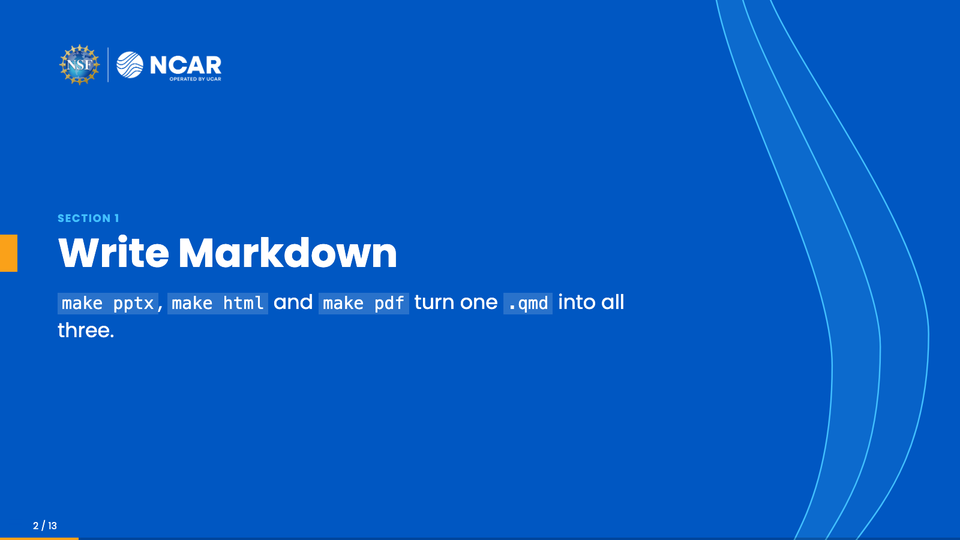
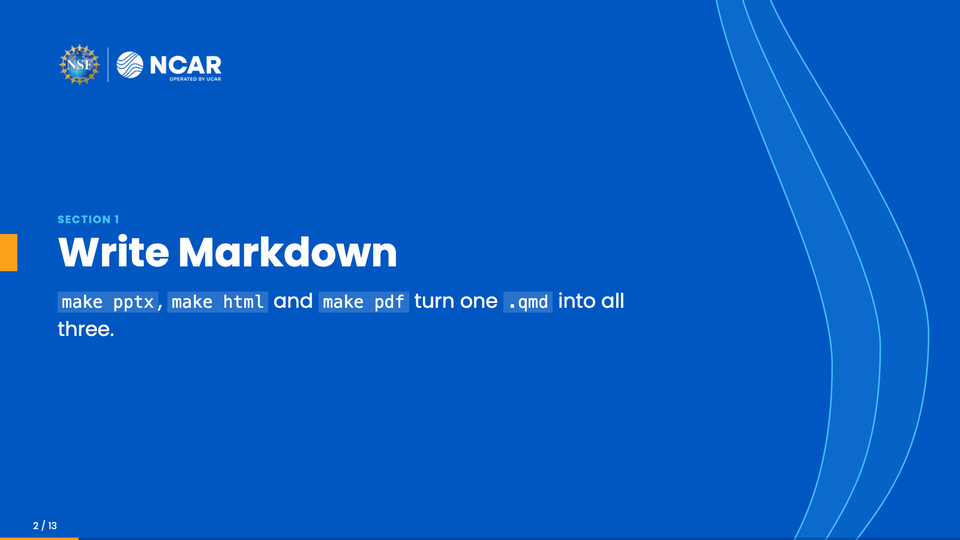
The theme's ex gaps as em of their element, from one key each
Beamer set four gaps in ex where HTML set em (Poppins' ex is 0.55 em, so the PDF's read about
half of HTML's), and the divider's two were a third hand in pixels in section_subtitle.py. Each
is a livery key read by all three formats: boxes.note.gap (em of the caption, under a figure),
boxes.quote.attribution-gap (em of the caption, under the lines; the pptx attribution gains it, it
had none), section.eyebrow-gap (em of the eyebrow) and section.subtitle-gap (em of the
subtitle), with SECTION always in the json. Beamer selects the element's font and skips in em,
no \dimexpr; the feature panel's plain blocks keep their gaps as em of the block title.

Ben's pick from the side-by-side (ncar, cu, nasa-dark; the note, the quote, the divider): the
PDF's gaps as they were (note 0.3, attribution 0.5, eyebrow 0.33, subtitle 0.66), so HTML shrinks
to them. The PDF's subtitle gap was measured in the heading's font (1.2ex of 40 pt) and is now
the subtitle's (0.66 em of 20 pt), so its divider stacks tighten too.

Parity against 81a3c9d, beyond items 1 and 2: PDF every divider page (the centered stack moves:
quickstart p-02, p-08; sample p-03, p-10; fixtures p-7 the unnumbered divider's tab; plots p-02),
the feature slides' panel headings (quickstart p-10, fixtures p-6), the note slide (sample p-22,
re-centered) and the quote (sample p-07); the latex demo's text dump gains a blank line. HTML
every deck. pptx every divider slide (the stack) and the quote slide (the attribution's spacing).
[…]

diff --git a/_extensions/engine/engine-revealjs.scss b/_extensions/engine/engine-revealjs.scss
@@ -332,7 +332,7 @@ $body-height: calc(var(--engine-body-bottom) - var(--engine-body-top));
 // caption's look
 .reveal .slides section .engine-note {
   @include caption;
-  margin-top: 0.4em;
+  margin-top: var(--engine-note-gap);   // boxes.note.gap, em of the caption type
   p { margin: 0; }
 }
 
@@ -437,7 +437,7 @@ $body-height: calc(var(--engine-body-bottom) - var(--engine-body-top));
   > p + p { margin-top: 0.25em; }
   > p.engine-attribution {   // in the body's face, upright
     @include caption($block: false);
-    margin-top: 0.6em; font-family: inherit; font-style: normal;
+    margin-top: var(--engine-quote-attribution-gap); font-family: inherit; font-style: normal;   // boxes.quote.attribution-gap
   }
   @include trim($last: false);
 }
@@ -909,7 +909,7 @@ div.reveal div.slides section.engine-title.quarto-title-block {
     font-weight: 700;
     letter-spacing: 0.1em;
     text-transform: uppercase;
-    margin-bottom: 0.5em;
+    margin-bottom: var(--engine-section-eyebrow-gap);   // section.eyebrow-gap, em of the eyebrow
   }
   h1 {
     position: relative;
@@ -929,7 +929,7 @@ div.reveal div.slides section.engine-title.quarto-title-block {
     }
   }
   .engine-subtitle {
-    margin-top: 0.7em;
+    margin-top: var(--engine-section-subtitle-gap);   // section.subtitle-gap, em of the subtitle
     font-size: calc(var(--engine-type-sectionsubtitle, 1.1) * 1em);
     p { margin: 0 0 0.4em; }
     :not(pre) > code { background: rgba(#fff, 0.16); color: var(--engine-cmp-text); }

diff --git a/liveries/nasa-dark/build/livery.css b/liveries/nasa-dark/build/livery.css
@@ -103,6 +103,8 @@
   --engine-title-rule-width: 1.4px;
   --engine-body-top: 150px;
   --engine-title-rule-color: #606367;
+  --engine-section-eyebrow-gap: 0.33em;
+  --engine-section-subtitle-gap: 0.66em;
   --engine-title-left: var(--engine-margin);
   --engine-title-right: calc(var(--engine-margin) + 40px + var(--engine-logo-w));
   --engine-pagenumber-left: auto;
@@ -170,6 +172,8 @@
   --engine-gallery-fill: transparent;
   --engine-references-hang: 1.5em;
   --engine-references-gap: 0.4em;
+  --engine-quote-attribution-gap: 0.5em;
+  --engine-note-gap: 0.3em;
 }
 /* chart colors (livery.json charts) */
 :root {

diff --git a/liveries/nasa/build/livery.css b/liveries/nasa/build/livery.css
@@ -103,6 +103,8 @@
   --engine-title-rule-width: 1.4px;
   --engine-body-top: 150px;
   --engine-title-rule-color: #B0B1B2;
+  --engine-section-eyebrow-gap: 0.33em;
+  --engine-section-subtitle-gap: 0.66em;
   --engine-title-left: var(--engine-margin);
   --engine-title-right: calc(var(--engine-margin) + 40px + var(--engine-logo-w));
   --engine-pagenumber-left: auto;
@@ -170,6 +172,8 @@
   --engine-gallery-fill: transparent;
   --engine-references-hang: 1.5em;
   --engine-references-gap: 0.4em;
+  --engine-quote-attribution-gap: 0.5em;
+  --engine-note-gap: 0.3em;
 }
 /* chart colors (livery.json charts) */
 :root {

diff --git a/liveries/ncar/build/livery.css b/liveries/ncar/build/livery.css
@@ -95,6 +95,8 @@
   --engine-title-rule-width: 1.4px;
   --engine-body-top: 150px;
   --engine-title-rule-color: #A9B8CB;
+  --engine-section-eyebrow-gap: 0.33em;
+  --engine-section-subtitle-gap: 0.66em;
   --engine-title-left: var(--engine-margin);
   --engine-title-right: calc(var(--engine-margin) + 40px + var(--engine-logo-w));
   --engine-pagenumber-left: 50px;
@@ -155,6 +157,8 @@
   --engine-gallery-fill: transparent;
   --engine-references-hang: 1.5em;
   --engine-references-gap: 0.4em;
+  --engine-quote-attribution-gap: 0.5em;
+  --engine-note-gap: 0.3em;
 }
 /* chart colors (livery.json charts) */
 :root {

diff --git a/liveries/ncarucar/build/livery.css b/liveries/ncarucar/build/livery.css
@@ -95,6 +95,8 @@
   --engine-title-rule-width: 1.4px;
   --engine-body-top: 150px;
   --engine-title-rule-color: #A9B8CB;
+  --engine-section-eyebrow-gap: 0.33em;
+  --engine-section-subtitle-gap: 0.66em;
   --engine-title-left: var(--engine-margin);
   --engine-title-right: calc(var(--engine-margin) + 40px + var(--engine-logo-w));
   --engine-pagenumber-left: 50px;
@@ -155,6 +157,8 @@
   --engine-gallery-fill: transparent;
   --engine-references-hang: 1.5em;
   --engine-references-gap: 0.4em;
+  --engine-quote-attribution-gap: 0.5em;
+  --engine-note-gap: 0.3em;
 }
 /* chart colors (livery.json charts) */
 :root {

diff --git a/liveries/ucar/build/livery.css b/liveries/ucar/build/livery.css
@@ -95,6 +95,8 @@
   --engine-title-rule-width: 1.4px;
   --engine-body-top: 150px;
   --engine-title-rule-color: #A9B8CB;
+  --engine-section-eyebrow-gap: 0.33em;
+  --engine-section-subtitle-gap: 0.66em;
   --engine-title-left: var(--engine-margin);
   --engine-title-right: calc(var(--engine-margin) + 40px + var(--engine-logo-w));
   --engine-pagenumber-left: 50px;
@@ -155,6 +157,8 @@
   --engine-gallery-fill: transparent;
   --engine-references-hang: 1.5em;
   --engine-references-gap: 0.4em;
+  --engine-quote-attribution-gap: 0.5em;
+  --engine-note-gap: 0.3em;
 }
 /* chart colors (livery.json charts) */
 :root {

diff --git a/liveries/ucp/build/livery.css b/liveries/ucp/build/livery.css
@@ -95,6 +95,8 @@
   --engine-title-rule-width: 1.4px;
   --engine-body-top: 150px;
   --engine-title-rule-color: #A9B8CB;
+  --engine-section-eyebrow-gap: 0.33em;
+  --engine-section-subtitle-gap: 0.66em;
   --engine-title-left: var(--engine-margin);
   --engine-title-right: calc(var(--engine-margin) + 40px + var(--engine-logo-w));
   --engine-pagenumber-left: 50px;
@@ -155,6 +157,8 @@
   --engine-gallery-fill: transparent;
   --engine-references-hang: 1.5em;
   --engine-references-gap: 0.4em;
+  --engine-quote-attribution-gap: 0.5em;
+  --engine-note-gap: 0.3em;
 }
 /* chart colors (livery.json charts) */
 :root {

diff --git a/liveries/nasa-jsc-eg/build/livery.css b/liveries/nasa-jsc-eg/build/livery.css
@@ -97,6 +97,8 @@
   --engine-title-rule-width: 1.4px;
   --engine-body-top: 166.8px;
   --engine-title-rule-color: #E1E1E1;
+  --engine-section-eyebrow-gap: 0.33em;
+  --engine-section-subtitle-gap: 0.66em;
   --engine-title-tab: none;
   --engine-title-left: var(--engine-margin);
   --engine-title-right: calc(22.4px + 40px + var(--engine-logo-w));
@@ -165,6 +167,8 @@
   --engine-gallery-fill: transparent;
   --engine-references-hang: 1.5em;
   --engine-references-gap: 0.4em;
+  --engine-quote-attribution-gap: 0.5em;
+  --engine-note-gap: 0.3em;
 }
 /* chart colors (livery.json charts) */
 :root {

diff --git a/liveries/cu/build/livery.css b/liveries/cu/build/livery.css
@@ -99,6 +99,8 @@
   --engine-title-rule-width: 1.4px;
   --engine-body-top: 150px;
   --engine-title-rule-color: #AAA8A3;
+  --engine-section-eyebrow-gap: 0.33em;
+  --engine-section-subtitle-gap: 0.66em;
   --engine-title-left: var(--engine-margin);
   --engine-title-right: var(--engine-margin);
   --engine-pagenumber-left: auto;
@@ -166,6 +168,8 @@
   --engine-gallery-fill: transparent;
   --engine-references-hang: 1.5em;
   --engine-references-gap: 0.4em;
+  --engine-quote-attribution-gap: 0.5em;
+  --engine-note-gap: 0.3em;
 }
 /* chart colors (livery.json charts) */
 :root {

diff --git a/liveries/nsi/build/livery.css b/liveries/nsi/build/livery.css
@@ -99,6 +99,8 @@
   --engine-title-rule-width: 1.4px;
   --engine-body-top: 177.6px;
   --engine-title-rule-color: #AAA8A3;
+  --engine-section-eyebrow-gap: 0.33em;
+  --engine-section-subtitle-gap: 0.66em;
   --engine-title-justify: center;
   --engine-title-text-align: center;
   --engine-title-tab: none;
@@ -170,6 +172,8 @@
   --engine-gallery-fill: transparent;
   --engine-references-hang: 1.5em;
   --engine-references-gap: 0.4em;
+  --engine-quote-attribution-gap: 0.5em;
+  --engine-note-gap: 0.3em;
 }
 /* chart colors (livery.json charts) */
 :root {

diff --git a/_extensions/engine/livery_build.py b/_extensions/engine/livery_build.py
@@ -69,6 +69,10 @@ SLOT_ROLES = {"dk1": "foreground", "lt1": "background", "dk2": "primary", "lt2":
 FRAMETITLE = {"align": "left", "tab": True, "rule": True, "top": 0.0489, "height": 0.0778, "rule-y": 0.1444,
               "rule-width": 0.0016, "rule-color": "rule"}
 BODY_GAP = 0.0223   # the content body's top under the hairline, or under a taller mark: 20 px of 900 (0.1444 + it rounds to the 0.1667 the formats drew)
+# the divider stack's gaps (livery.yml section:), em of the element above the gap: the eyebrow's under
+# it (of the eyebrow type), the subtitle's above it (of the section subtitle type). These and the note
+# and attribution gaps are the PDF's old ex gaps as em (Ben's pick from the side-by-side, 2026-10-22)
+SECTION = {"eyebrow-gap": 0.33, "subtitle-gap": 0.66}
 BODY_BOTTOM = 0.9222   # its foot (the pptx body placeholder's; 70 px of 900 above the edge, as HTML pads)
 # the fields every livery has: content slides on the background role, the colored fields (dividers,
 # the cover title and closing, feature covers) on primary; a band title adds its own field role
@@ -114,7 +118,9 @@ BOXES = {
     # space above each row and number-width the number column, em of the body (HTML's 0.55em, 2em)
     "agenda": {"number-color": "primary-contrast", "current-color": "primary-contrast", "gap": 0.55, "number-width": 2},
     "quote": {"bar": 0.0089, "bar-color": "primary-contrast", "pad": [0.3, 1.0],   # a quote block: a bar, no fill,
-              "family": None, "style": "normal"},   # its lines' face: a typography.fonts family (null: the body's), its style
+              "family": None, "style": "normal",   # its lines' face: a typography.fonts family (null: the body's), its style
+              "attribution-gap": 0.5},   # the attribution's distance under the lines, em of the caption type
+    "note": {"gap": 0.3},   # a ::: note under a figure or table: its distance under it, em of the caption type
     # (primary-contrast: a thin bar must read on the background, and secondary does not on every livery)
     "card": {"fill": "background", "radius": 0, "outline": 0.0033, "outline-color": "highlight",
              "pad": [0.5, 0.8], "head-pad": [0.35, 0.8],
@@ -238,6 +244,7 @@ def resolve(d: Path) -> tuple[dict, dict]:
     for key in ("geometry", "section", "art", "pptx", "latex"):
         if key in data:
             out[key] = data[key]
+    out["section"] = {**SECTION, **(data.get("section") or {})}   # the divider stack's gaps always in the json
     # the TeX name of each role and blend (livery.sty defines them, and carries this table as
     # \engine@role@<name> for a card's or strip's role=; the filters check a role= against it)
     out.setdefault("latex", {})["roles"] = {**{r: t for r, t in ROLE_TEX.items() if r in roles},
@@ -849,6 +856,9 @@ def emit_sty(livery: dict, sources: dict, extra: str = "") -> str:
     for k, tex in (("top", "top"), ("height", "height"), ("rule-y", "ruley"), ("rule-width", "rulewidth"), ("body", "bodytop")):
         L.append(f"\\def\\engine@ft@{tex}{{{ft[k]}}}")
     L.append(f"\\definecolor{{EngineFrametitleRuleColor}}{{HTML}}{{{ft['rule-color'][1:]}}}")
+    L.append("% the divider stack's gaps (section:), em of the eyebrow and of the subtitle")
+    for k in SECTION:
+        L.append(f"\\def\\engine@section@{k.replace('-', '')}{{{livery['section'][k]}}}")
     mk = livery.get("marking")
     if mk:   # the marking strip: its box (y down), alignment, colors and the livery's default text
         L.append("% the marking strip (marking:); its text is the deck's \\enginemarking, else this default")
@@ -1101,6 +1111,8 @@ def emit_css(livery: dict, extra: str = "") -> str:
                     ("rule-width", "title-rule-width"), ("body", "body-top")):
         props.append(f"--engine-{name}: {px(ft[k])};")
     props.append(f"--engine-title-rule-color: {ft['rule-color']};")
+    for k in SECTION:   # the divider stack's gaps, em of the eyebrow and of the subtitle (section:)
+        props.append(f"--engine-section-{k}: {livery['section'][k]:g}em;")
     if ft["align"] == "center":
         props.append("--engine-title-justify: center;")
         props.append("--engine-title-text-align: center;")
@@ -1217,6 +1229,8 @@ def emit_css_boxes(livery: dict, px) -> list[str]:
           f"--engine-gallery-fill: {gal['fill'] or 'transparent'};"]
     refs = b["references"]
     p += [f"--engine-references-hang: {refs['hang']:g}em;", f"--engine-references-gap: {refs['gap']:g}em;"]
+    p += [f"--engine-quote-attribution-gap: {quote['attribution-gap']:g}em;",   # em of the caption type: set on the
+          f"--engine-note-gap: {b['note']['gap']:g}em;"]                          # caption-sized element itself
     return p
 
 

diff --git a/_extensions/engine/pptx_steps/section_subtitle.py b/_extensions/engine/pptx_steps/section_subtitle.py
@@ -41,8 +41,8 @@ LABEL_ALIGN = '<a:pPr algn="ctr"/>' if COLUMN.get("align") == "center" else ""  
 EYEBROW = LIVERY["compositions"]["section"]["eyebrow"]   # {label, color}: "Section", cap="all"
                                             # sets it in capitals; None: no eyebrow (section.label: null)
 LABEL_PT = livery_mod.type_pt(LIVERY, "eyebrow")   # the eyebrow role (HTML's 0.7em)
-LABEL_GAP = 10                              # margin-bottom 0.5em
-BODY_GAP = 22                               # .engine-subtitle margin-top 0.7em
+SECTION = LIVERY["section"]                 # the stack's gaps (section.eyebrow-gap, .subtitle-gap), em of the
+LABEL_GAP = round(SECTION["eyebrow-gap"] * LABEL_PT / PT_PX)   # eyebrow and of the subtitle, as HTML and the PDF
 HEAD_LINE = 1.4                             # a divider line's height in em: ascent + descent of the heading font
                                             # (measure.LINE, 1.2, is a body line's)
 BLOCK_SLACK = 4                             # px grown onto a measured title or subtitle block
@@ -197,7 +197,8 @@ def _dress(root, layout_root, number, of=None):
     title_h = height(t_style, title, measure.TITLE, 700) + BLOCK_SLACK   # the face the pptx sets titles in
     body_text = body is not None and any(p.strip() for p in _paragraphs(body))
     body_h = height(b_style, body, measure.BODY, 400) + BLOCK_SLACK if body_text else 0
-    total = label_h + label_gap + title_h + (BODY_GAP + body_h if body_text else 0)
+    body_gap = round(SECTION["subtitle-gap"] * b_style[2] / PT_PX)   # em of the subtitle's size (the layout's)
+    total = label_h + label_gap + title_h + (body_gap + body_h if body_text else 0)
     y = BLOCK_TOP if COLUMN["anchor"] == "top" else (BLOCK_TOP + BLOCK_BOTTOM - total) / 2   # column.anchor
 
     ids = [int(e.get("id")) for e in tree.iter("{%s}cNvPr" % P) if (e.get("id") or "").isdigit()]
@@ -221,7 +222,7 @@ def _dress(root, layout_root, number, of=None):
     if TAB:
         tree.append(tab)
     if body_text:
-        _set_xfrm(body, b_style[0], y + title_h + BODY_GAP, b_style[1], body_h)
+        _set_xfrm(body, b_style[0], y + title_h + body_gap, b_style[1], body_h)
 
 
 def run(parts: dict, name: str) -> None:
